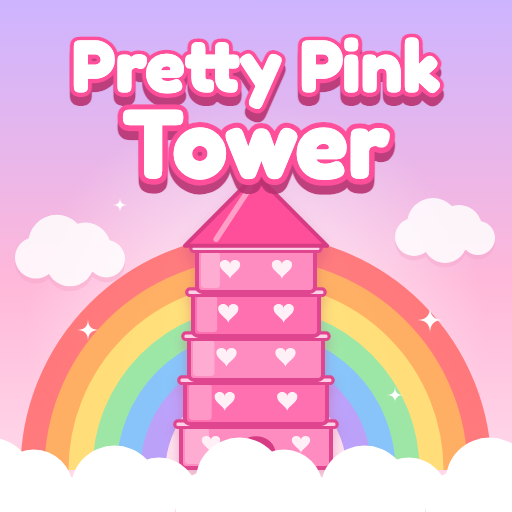
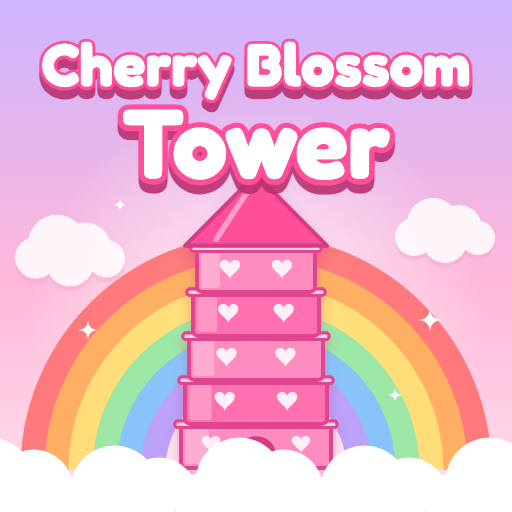
Rename the game to Cherry Blossom Tower
Updates the donation stand sign, the donate menu, the README and the
title on the icon and thumbnail (redrawn).

Changed region(s): [[0.0625, 0.0625, 0.9375, 0.25]]

diff --git a/art/thumbnail.html b/art/thumbnail.html
@@ -56,7 +56,7 @@
 <g opacity="1.0"><g fill="#f3a3c8" opacity="0.45"><circle cx="1517.0" cy="1092.5" r="57.0"/><circle cx="1574.0" cy="1053.5" r="78.0"/><circle cx="1652.0" cy="1065.5" r="69.0"/><circle cx="1709.0" cy="1095.5" r="51.0"/><circle cx="1610.0" cy="1104.5" r="66.0"/></g><g fill="#ffffff"><circle cx="1517.0" cy="1079.0" r="57.0"/><circle cx="1574.0" cy="1040.0" r="78.0"/><circle cx="1652.0" cy="1052.0" r="69.0"/><circle cx="1709.0" cy="1082.0" r="51.0"/><circle cx="1610.0" cy="1091.0" r="66.0"/></g></g>
 <g opacity="1.0"><g fill="#f3a3c8" opacity="0.45"><circle cx="1687.0" cy="1074.5" r="57.0"/><circle cx="1744.0" cy="1035.5" r="78.0"/><circle cx="1822.0" cy="1047.5" r="69.0"/><circle cx="1879.0" cy="1077.5" r="51.0"/><circle cx="1780.0" cy="1086.5" r="66.0"/></g><g fill="#ffffff"><circle cx="1687.0" cy="1061.0" r="57.0"/><circle cx="1744.0" cy="1022.0" r="78.0"/><circle cx="1822.0" cy="1034.0" r="69.0"/><circle cx="1879.0" cy="1064.0" r="51.0"/><circle cx="1780.0" cy="1073.0" r="66.0"/></g></g>
 <g opacity="1.0"><g fill="#f3a3c8" opacity="0.45"><circle cx="1857.0" cy="1092.5" r="57.0"/><circle cx="1914.0" cy="1053.5" r="78.0"/><circle cx="1992.0" cy="1065.5" r="69.0"/><circle cx="2049.0" cy="1095.5" r="51.0"/><circle cx="1950.0" cy="1104.5" r="66.0"/></g><g fill="#ffffff"><circle cx="1857.0" cy="1079.0" r="57.0"/><circle cx="1914.0" cy="1040.0" r="78.0"/><circle cx="1992.0" cy="1052.0" r="69.0"/><circle cx="2049.0" cy="1082.0" r="51.0"/><circle cx="1950.0" cy="1091.0" r="66.0"/></g></g>
-<text x="110" y="330" text-anchor="start" font-family="Fredoka, 'Arial Rounded MT Bold', sans-serif" font-weight="700" font-size="172" fill="#ffffff" stroke="#ff4f9a" stroke-width="20.6" stroke-linejoin="round" paint-order="stroke" filter="url(#titleShadow)" transform="rotate(-4 110 330)">Pretty Pink</text>
+<text x="110" y="325" text-anchor="start" font-family="Fredoka, 'Arial Rounded MT Bold', sans-serif" font-weight="700" font-size="140" fill="#ffffff" stroke="#ff4f9a" stroke-width="16.8" stroke-linejoin="round" paint-order="stroke" filter="url(#titleShadow)" transform="rotate(-4 110 325)">Cherry Blossom</text>
 <text x="150" y="545" text-anchor="start" font-family="Fredoka, 'Arial Rounded MT Bold', sans-serif" font-weight="700" font-size="230" fill="#ffffff" stroke="#ff4f9a" stroke-width="27.6" stroke-linejoin="round" paint-order="stroke" filter="url(#titleShadow)" transform="rotate(-4 150 545)">Tower</text>
 <g transform="rotate(-4 160 650)"><rect x="150" y="610" width="590" height="76" rx="38" fill="#ff4f9a" stroke="#ffffff" stroke-width="5"/><text x="445" y="662" text-anchor="middle" font-family="Fredoka, 'Arial Rounded MT Bold', sans-serif" font-weight="700" font-size="40" fill="#ffffff" letter-spacing="2">OBBY • ASMR • HANGOUT</text></g>
 </svg></body></html>

diff --git a/art/icon.html b/art/icon.html
@@ -37,6 +37,6 @@
 <g opacity="1.0"><g fill="#f3a3c8" opacity="0.45"><circle cx="207.3" cy="511.6" r="32.3"/><circle cx="239.6" cy="489.4" r="44.2"/><circle cx="283.8" cy="496.2" r="39.1"/><circle cx="316.1" cy="513.2" r="28.9"/><circle cx="260.0" cy="518.4" r="37.4"/></g><g fill="#ffffff"><circle cx="207.3" cy="503.9" r="32.3"/><circle cx="239.6" cy="481.8" r="44.2"/><circle cx="283.8" cy="488.6" r="39.1"/><circle cx="316.1" cy="505.6" r="28.9"/><circle cx="260.0" cy="510.7" r="37.4"/></g></g>
 <g opacity="1.0"><g fill="#f3a3c8" opacity="0.45"><circle cx="332.3" cy="519.5" r="32.3"/><circle cx="364.6" cy="497.4" r="44.2"/><circle cx="408.8" cy="504.2" r="39.1"/><circle cx="441.1" cy="521.2" r="28.9"/><circle cx="385.0" cy="526.4" r="37.4"/></g><g fill="#ffffff"><circle cx="332.3" cy="511.9" r="32.3"/><circle cx="364.6" cy="489.8" r="44.2"/><circle cx="408.8" cy="496.6" r="39.1"/><circle cx="441.1" cy="513.6" r="28.9"/><circle cx="385.0" cy="518.7" r="37.4"/></g></g>
 <g opacity="1.0"><g fill="#f3a3c8" opacity="0.45"><circle cx="457.3" cy="511.6" r="32.3"/><circle cx="489.6" cy="489.4" r="44.2"/><circle cx="533.8" cy="496.2" r="39.1"/><circle cx="566.1" cy="513.2" r="28.9"/><circle cx="510.0" cy="518.4" r="37.4"/></g><g fill="#ffffff"><circle cx="457.3" cy="503.9" r="32.3"/><circle cx="489.6" cy="481.8" r="44.2"/><circle cx="533.8" cy="488.6" r="39.1"/><circle cx="566.1" cy="505.6" r="28.9"/><circle cx="510.0" cy="510.7" r="37.4"/></g></g>
-<text x="256" y="92" text-anchor="middle" font-family="Fredoka, 'Arial Rounded MT Bold', sans-serif" font-weight="700" font-size="74" fill="#ffffff" stroke="#ff4f9a" stroke-width="8.9" stroke-linejoin="round" paint-order="stroke" filter="url(#titleShadow)">Pretty Pink</text>
+<text x="256" y="86" text-anchor="middle" font-family="Fredoka, 'Arial Rounded MT Bold', sans-serif" font-weight="700" font-size="60" fill="#ffffff" stroke="#ff4f9a" stroke-width="7.2" stroke-linejoin="round" paint-order="stroke" filter="url(#titleShadow)">Cherry Blossom</text>
 <text x="256" y="178" text-anchor="middle" font-family="Fredoka, 'Arial Rounded MT Bold', sans-serif" font-weight="700" font-size="98" fill="#ffffff" stroke="#ff4f9a" stroke-width="11.8" stroke-linejoin="round" paint-order="stroke" filter="url(#titleShadow)">Tower</text>
 </svg></body></html>

diff --git a/art/make_art.py b/art/make_art.py
@@ -1,4 +1,4 @@
-"""Draws the Roblox game icon and thumbnail for Pretty Pink Tower.
+"""Draws the Roblox game icon and thumbnail for Cherry Blossom Tower.
 
 Writes icon.html (512x512) and thumbnail.html (1920x1080) next to this file. Render them to PNG with:
 
@@ -218,7 +218,7 @@ def thumbnail():
     # fluffy cloud floor
     for i in range(12):
         body.append(cloud(80 + i * 170, 1040 + (i % 2) * 18, 1.5))
-    body.append(title(110, 330, "Pretty Pink", 172, rotate=-4))
+    body.append(title(110, 325, "Cherry Blossom", 140, rotate=-4))
     body.append(title(150, 545, "Tower", 230, rotate=-4))
     body.append(
         '<g transform="rotate(-4 160 650)"><rect x="150" y="610" width="590" height="76" rx="38" fill="#ff4f9a" '
@@ -241,7 +241,7 @@ def icon():
     body.append(tower(256, 468, 5, 44, 150, 118, line=4, flag=False))
     for i in range(5):
         body.append(cloud(10 + i * 125, 492 + (i % 2) * 8, 0.85))
-    body.append(title(256, 92, "Pretty Pink", 74, anchor="middle"))
+    body.append(title(256, 86, "Cherry Blossom", 60, anchor="middle"))
     body.append(title(256, 178, "Tower", 98, anchor="middle"))
     return page(s, s, "\n".join(body))
 

diff --git a/README.md b/README.md
@@ -1,6 +1,6 @@
 # pretty-pink-tower
 
-Roblox game. Scripts are edited in VS Code and live-synced into Roblox Studio with [Rojo](https://rojo.space).
+Roblox game **Cherry Blossom Tower**. Scripts are edited in VS Code and live-synced into Roblox Studio with [Rojo](https://rojo.space).
 
 ## What lives where
 
